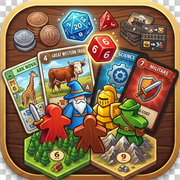
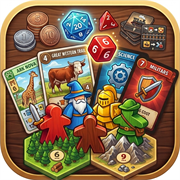
换用新裁切的 app 圖示；新增「開新團」推播通知
圖示：
- 用你提供的新版重新裁切（同樣的邊界比例），换掉舊的四個尺寸

推播通知（第一個通知時機：有人開新團）：
- firestore.rules 新增 push_subscriptions 集合，只能新增/刪除自己名下
  的訂閱（doc id 是 FCM token 本身），不開放讀取；已部署
- api/_firebaseAdmin.js 多 export messaging；新增 api/_push.js 的
  notifyOthers()，對「除了某人以外的所有訂閱裝置」發推播，順便清掉
  失效的 token
- api/action.js 的 createEvent 成功後呼叫 notifyOthers()，通知內容是
  「XXX 發起了「團名」」，點通知會開到該團頁面；推播失敗不影響開團本身
- js/push.js：使用者按下「開啟通知」才會要求瀏覽器權限、拿 FCM token、
  存進 push_subscriptions
- js/identityBar.js 頁首加「開啟通知」連結，只在瀏覽器支援且還沒同意
  過的時候顯示
- sw.js 加上 Firebase Messaging 背景推播處理（用 compat 版 importScripts，
  service worker 保持 classic script 以相容 iOS/Safari）

還缺一步（我沒辦法自己做）：js/firebaseConfig.js 的 VAPID_PUBLIC_KEY
目前是 'PASTE_ME' 佔位——要到 Firebase Console →專案設定→Cloud
Messaging 分頁→「Web Push 憑證」產生金鑰組，把那組值貼進去，通知功能
才會真的動起來；沒貼之前「開啟通知」連結不會出現（pushSupported() 會
擋掉），不影響其他功能。

diff --git a/js/push.js b/js/push.js
@@ -1,0 +1,47 @@
+// 推播通知：目前唯一的通知時機是「有人開新團」（api/action.js 的
+// createEvent 觸發），這裡只負責「使用者按下開啟通知」之後的訂閱流程。
+import { initializeApp, getApps } from 'https://www.gstatic.com/firebasejs/12.19.0/firebase-app.js';
+import { getMessaging, getToken } from 'https://www.gstatic.com/firebasejs/12.19.0/firebase-messaging.js';
+import { doc, setDoc } from 'https://www.gstatic.com/firebasejs/12.19.0/firebase-firestore.js';
+import { firebaseConfig, VAPID_PUBLIC_KEY } from './firebaseConfig.js';
+import { db, getSelfId } from './firebase.js';
+
+export function pushSupported() {
+  return 'Notification' in window && 'serviceWorker' in navigator && VAPID_PUBLIC_KEY !== 'PASTE_ME';
+}
+
+export function notificationPermission() {
+  return 'Notification' in window ? Notification.permission : 'unsupported';
+}
+
+// 使用者主動按下「開啟通知」才會呼叫：跳瀏覽器權限詢問、拿 FCM token、
+// 存進 Firestore 綁自己的 member_id。回傳 { ok, error? }。
+export async function enableNotifications() {
+  if (!pushSupported()) return { ok: false, error: 'UNSUPPORTED' };
+
+  const permission = await Notification.requestPermission();
+  if (permission !== 'granted') return { ok: false, error: 'PERMISSION_DENIED' };
+
+  try {
+    const registration = await navigator.serviceWorker.ready;
+    // firebase-messaging 只認自己的 app 實例；用同一組設定另外開一個，
+    // 跟 firebase.js 那個各自獨立，不會互相干擾。
+    const app = getApps().find((a) => a.name === 'messaging') || initializeApp(firebaseConfig, 'messaging');
+    const messaging = getMessaging(app);
+    const token = await getToken(messaging, {
+      vapidKey: VAPID_PUBLIC_KEY,
+      serviceWorkerRegistration: registration,
+    });
+    if (!token) return { ok: false, error: 'NO_TOKEN' };
+
+    const memberId = getSelfId();
+    await setDoc(doc(db, 'push_subscriptions', token), {
+      member_id: memberId,
+      token,
+      created_at: new Date().toISOString(),
+    });
+    return { ok: true };
+  } catch (err) {
+    return { ok: false, error: err.code || err.message || 'PUSH_ERROR' };
+  }
+}

diff --git a/sw.js b/sw.js
@@ -1,4 +1,4 @@
-// 最小 service worker：目前只用來讓瀏覽器判定這個網站「可安裝」，還沒做
+// 最小 service worker：主要用來讓瀏覽器判定這個網站「可安裝」，還沒做
 // 離線快取。fetch 事件單純直接放行給網路，不攔截、不快取，避免使用者
 // 安裝後看到舊資料（這個站的資料變動頻繁，先不做快取比較安全）。
 self.addEventListener('install', () => {
@@ -11,4 +11,38 @@ self.addEventListener('activate', (event) => {
 
 self.addEventListener('fetch', () => {
   // 故意不呼叫 event.respondWith()，全部交給瀏覽器預設處理。
+});
+
+// 推播通知：app 不在前景（分頁沒開著/背景）時，FCM 會直接把訊息丟給
+// service worker，要靠這裡顯示系統通知。用 compat 版是因為 service
+// worker 註冊成 classic script（沒有 type: module），才能相容 Safari/iOS
+// ——firebaseConfig.js 那份 ES module 沒辦法直接 import 進來，設定值只好
+// 在這裡重複一份。
+importScripts('https://www.gstatic.com/firebasejs/12.19.0/firebase-app-compat.js');
+importScripts('https://www.gstatic.com/firebasejs/12.19.0/firebase-messaging-compat.js');
+
+firebase.initializeApp({
+  apiKey: 'AIzaSyBUdLuq_ltR3S9JQpWRk5BRnJ63zfxoKAU',
+  authDomain: 'board-games-appointmen.firebaseapp.com',
+  projectId: 'board-games-appointmen',
+  storageBucket: 'board-games-appointmen.firebasestorage.app',
+  messagingSenderId: '1080375976690',
+  appId: '1:1080375976690:web:d368db6624eb6e7ce9e66b',
+});
+
+const messaging = firebase.messaging();
+messaging.onBackgroundMessage((payload) => {
+  const { title, body } = payload.notification || {};
+  const link = (payload.fcmOptions && payload.fcmOptions.link) || (payload.data && payload.data.link) || '/';
+  self.registration.showNotification(title || '桌遊揪團', {
+    body: body || '',
+    icon: '/icons/icon-192.png',
+    data: { link },
+  });
+});
+
+self.addEventListener('notificationclick', (event) => {
+  event.notification.close();
+  const link = (event.notification.data && event.notification.data.link) || '/';
+  event.waitUntil(self.clients.openWindow(link));
 });

diff --git a/js/identityBar.js b/js/identityBar.js
@@ -5,6 +5,7 @@
 import { memberById } from './store.js';
 import { getSelfId, clearSelfId, verifySecret, updateProfile } from './api.js';
 import { escapeHtml, showToast } from './app.js';
+import { pushSupported, notificationPermission, enableNotifications } from './push.js';
 
 let onIdentityChange = null;
 
@@ -28,8 +29,10 @@ function renderHeaderIdentity() {
   const member = selfId ? memberById(selfId) : null;
 
   if (selfId && member) {
+    const showEnableNotif = pushSupported() && notificationPermission() === 'default';
     el.innerHTML = `
       <span>你是：<strong>${escapeHtml(member.name)}</strong></span>
+      ${showEnableNotif ? '<a href="#" id="header-enable-notif-link">開啟通知</a>' : ''}
       <a href="#" id="header-edit-profile-link">修改資訊</a>
       <a href="#" id="header-logout-link">登出</a>
     `;
@@ -43,6 +46,19 @@ function renderHeaderIdentity() {
       e.preventDefault();
       openProfileModal(member);
     });
+    const enableNotifLink = document.getElementById('header-enable-notif-link');
+    if (enableNotifLink) {
+      enableNotifLink.addEventListener('click', async (e) => {
+        e.preventDefault();
+        const result = await enableNotifications();
+        if (!result.ok) {
+          showToast(result.error === 'PERMISSION_DENIED' ? '沒有允許通知權限，之後可以在瀏覽器設定裡重新開啟。' : `開啟通知失敗：${result.error}`);
+          return;
+        }
+        showToast('通知已開啟，之後有人開新團會通知你。');
+        renderHeaderIdentity();
+      });
+    }
     return;
   }
 

diff --git a/api/_push.js b/api/_push.js
@@ -1,0 +1,28 @@
+// 共用：對「除了某人以外的所有已訂閱裝置」發推播。目前唯一的使用場景是
+// 開新團通知，之後如果要加其他通知時機（成團定案、活動前提醒…）都可以
+// 共用這支。
+import { db, messaging } from './_firebaseAdmin.js';
+
+export async function notifyOthers(excludeMemberId, notification, link) {
+  const snap = await db.collection('push_subscriptions').get();
+  const tokens = snap.docs
+    .filter((d) => d.data().member_id !== excludeMemberId)
+    .map((d) => d.id);
+  if (tokens.length === 0) return;
+
+  const res = await messaging.sendEachForMulticast({
+    tokens,
+    notification,
+    webpush: { fcmOptions: { link: link || '/' } },
+  });
+
+  // token 過期/裝置解除訂閱會回傳特定錯誤，順便把這些訂閱清掉，避免
+  // 每次發通知都對著死掉的 token 重打一次。
+  const deletions = [];
+  res.responses.forEach((r, i) => {
+    if (!r.success && ['messaging/registration-token-not-registered', 'messaging/invalid-registration-token'].includes(r.error && r.error.code)) {
+      deletions.push(db.collection('push_subscriptions').doc(tokens[i]).delete());
+    }
+  });
+  if (deletions.length) await Promise.all(deletions);
+}

diff --git a/api/action.js b/api/action.js
@@ -7,6 +7,7 @@ import { db, auth } from './_firebaseAdmin.js';
 import { requireAuth, checkSecret } from './_auth.js';
 import { extractBggId, fetchBggData } from './_bgg.js';
 import { newId, nowIso, formatSlotLabel } from './_ids.js';
+import { notifyOthers } from './_push.js';
 
 export default async function handler(req, res) {
   if (req.method !== 'POST') return res.status(405).json({ ok: false, error: 'METHOD_NOT_ALLOWED' });
@@ -81,6 +82,19 @@ async function createEvent(req, res, uid) {
     };
     await db.collection('slots').doc(slotId).set(row);
     slotRows.push(row);
+  }
+
+  // 推播失敗（沒設定 VAPID key、token 過期等）不該讓開團這個動作跟著失敗，
+  // 所以吃掉錯誤，只是不通知而已。
+  try {
+    const creatorSnap = await db.collection('members').doc(uid).get();
+    const creatorName = (creatorSnap.exists && creatorSnap.data().name) || uid;
+    await notifyOthers(uid, {
+      title: '新開的團',
+      body: `${creatorName} 發起了「${eventRow.title || '未命名團'}」`,
+    }, `/#/event/${eventId}`);
+  } catch (err) {
+    console.error('開團推播失敗', err);
   }
 
   return res.status(200).json({ ok: true, event_id: eventId, event: eventRow, slots: slotRows });

diff --git a/js/firebaseConfig.js b/js/firebaseConfig.js
@@ -8,3 +8,10 @@ export const firebaseConfig = {
   messagingSenderId: '1080375976690',
   appId: '1:1080375976690:web:d368db6624eb6e7ce9e66b',
 };
+
+// 推播通知（Web Push）要用的 VAPID 公鑰，跟上面的 apiKey 不一樣，沒辦法
+// 用指令生成/查詢，只能手動去 Firebase Console →專案設定→Cloud Messaging
+// 分頁→「Web Push 憑證」→產生金鑰組，把那組「金鑰組」貼在這裡。
+// 沒設定的話 js/push.js 的 enableNotifications() 會直接失敗（不影響其他
+// 功能，只是通知按鈕按了沒反應）。
+export const VAPID_PUBLIC_KEY = 'PASTE_ME';

diff --git a/api/_firebaseAdmin.js b/api/_firebaseAdmin.js
@@ -2,6 +2,7 @@
 import { initializeApp, getApps, cert } from 'firebase-admin/app';
 import { getFirestore } from 'firebase-admin/firestore';
 import { getAuth } from 'firebase-admin/auth';
+import { getMessaging } from 'firebase-admin/messaging';
 
 function loadServiceAccount() {
   const raw = process.env.FIREBASE_SERVICE_ACCOUNT_JSON;
@@ -15,3 +16,4 @@ if (!getApps().length) {
 
 export const db = getFirestore();
 export const auth = getAuth();
+export const messaging = getMessaging();
